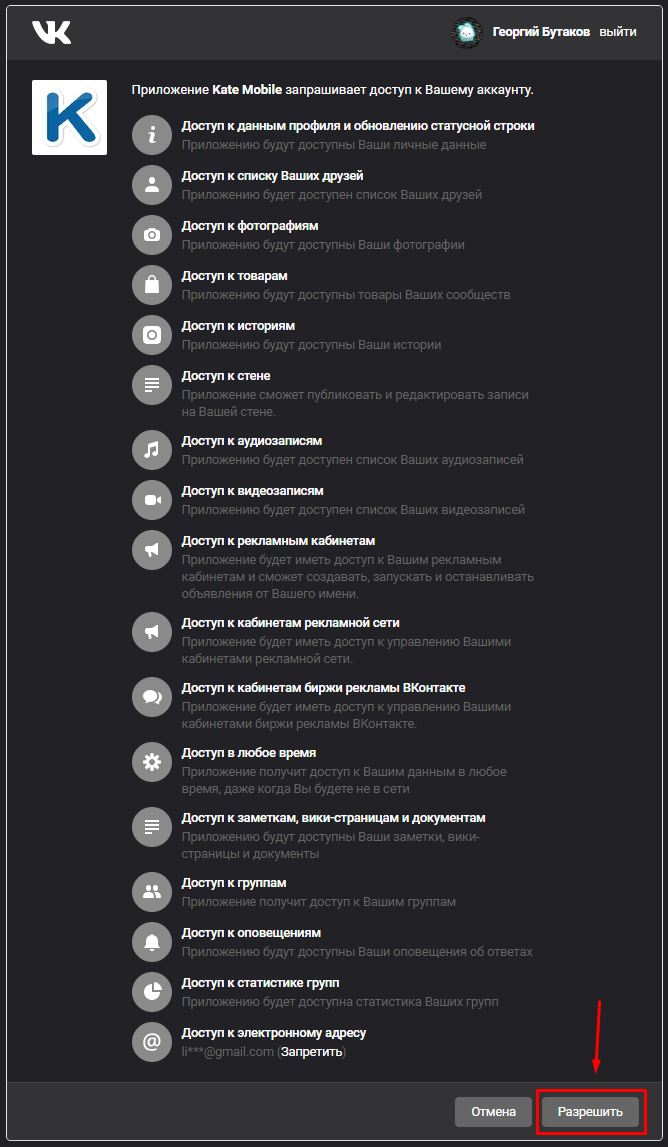
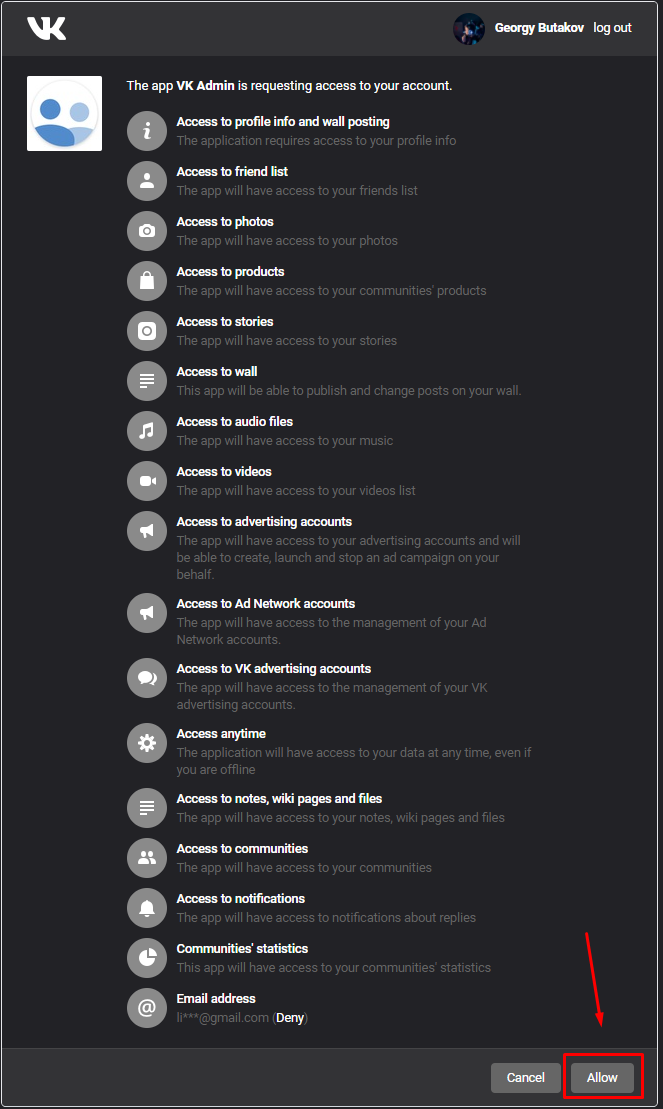
Fixed a lot of bugs. Removed delay before a status update.

diff --git a/main.py b/main.py
@@ -1,52 +1,51 @@
-from spotipy.oauth2 import SpotifyOAuth
-from typing import List
-
+from spotipy.oauth2 import SpotifyOAuth as sOauth
+import spotipy as sp
 from config import Config
 from colorama import Fore
-import spotipy
-import typing
 import vk_api
 import time
 
+
+spotify = sp.Spotify(auth_manager=sOauth(scope=Config.SCOPE, client_id=Config.CLIENT_ID,
+                                         client_secret=Config.CLIENT_SECRET, redirect_uri=Config.REDIRECT_URI,
+                                         username=Config.USERNAME))
+
+
 vk = vk_api.VkApi(token=Config.VK_TOKEN).get_api()
-
-spotify = spotipy.Spotify(
-    auth_manager=SpotifyOAuth(
-        scope=Config.SCOPE,
-        client_id=Config.CLIENT_ID,
-        client_secret=Config.CLIENT_SECRET,
-        redirect_uri=Config.REDIRECT_URI,
-        username=Config.USERNAME,
-    )
-)
-
-current_playing = typing.List[typing.Union[str, str, str]]
+user = vk.account.getProfileInfo()
+current_playing = []
 
 
 def update_status_to_standard():
-    if vk.users.get(fields="status")[0]["status"] != Config.STANDARD_STATUS:
+    if vk.status.get(user_id=user["id"]) != Config.STANDARD_STATUS:
         vk.status.set(text=Config.STANDARD_STATUS)
-    print(Fore.RED + f"User status was changed to {Config.STANDARD_STATUS}")
+        print(Fore.GREEN + "Your status was changed to a standard because of error.")
 
 
-def update_status(_current_playing: typing.List[typing.Union[str, str, str]]
-                  ) -> typing.List[typing.Union[str, str, str]]:
-    current = spotify.current_user_playing_track()
-    track, album, artist = current["item"]["name"], \
-                           current["item"]["album"]["name"], \
-                           current["item"]["artists"][0]["name"]
-    if _current_playing != [track, album, artist]:
-        vk.status.set(text=Config.STATUS.format(track=track, album=album, artist=album))
-        print(Fore.GREEN + f"Now playing: * {track} * {album} * {artist}")
-    if _current_playing is None:
-        raise
-    return [track, album, artist]
+def update_status(last_playing: list) -> list:
+    current_playing = spotify.current_user_playing_track()
+
+    if not current_playing:
+        update_status_to_standard()
+        return []
+
+    current_playing = [current_playing["item"]["name"], current_playing["item"]["album"]["name"],
+                       current_playing["item"]["artists"][0]["name"]]
+    if current_playing != last_playing:
+        search_result = vk.audio.search(q=f'{current_playing[0]} {current_playing[2]}')
+        if search_result["count"] == 0:
+            vk.status.set(text=Config.STATUS.format(track=current_playing[0], album=current_playing[1],
+                                                    artist=current_playing[2]))
+        else:
+            vk.audio.setBroadcast(audio=f"{search_result['items'][0]['owner_id']}_{search_result['items'][0]['id']}")
+        print(Fore.GREEN + f"Now playing: * {current_playing[0]} * {current_playing[1]} * {current_playing[2]}")
+    return current_playing
 
 
 while True:
     try:
         current_playing = update_status(current_playing)
-        time.sleep(5)
+        time.sleep(0.5)
     except (KeyboardInterrupt, SystemExit, Exception):
         update_status_to_standard()
         raise

diff --git a/config.py b/config.py
@@ -1,9 +1,9 @@
 class Config:
     STANDARD_STATUS = "_"
-    STATUS = "{track} - {artist} - {album}"  # Template for status text.
+    STATUS = "{track} - {artist} - {album}"
     VK_TOKEN = ""  # Access token for VKontakte account.
     CLIENT_ID = ""  # Client ID for spotify application.
     CLIENT_SECRET = ""  # Client secret for spotify application.
-    REDIRECT_URI = ""  # Redirect uri for spotify application.
-    USERNAME = ""  # Your name in spotify..
+    REDIRECT_URI = "http://localhost:8888"  # Redirect uri for spotify application.
+    USERNAME = ""  # Your name in spotify.
     SCOPE = "user-read-playback-state user-library-read"  # Spotify scopes.

diff --git a/first.py b/first.py
@@ -2,6 +2,4 @@ import webbrowser
 
 webbrowser.open(url="https://www.youtube.com/watch?v=RuxZaDHeZpA")
 webbrowser.open(url="https://developer.spotify.com/dashboard/")
-webbrowser.open(url="https://oauth.vk.com/authorize?client_id=2685278&scope=1073737727&"
-                    "redirect_uri=https://oauth.vk.com/blank.html&display=page&response_type=token&revoke=1")
-
+webbrowser.open(url="https://oauth.vk.com/authorize?client_id=6121396&scope=1073737727&redirect_uri=https://oauth.vk.com/blank.html&display=page&response_type=token&revoke=1")

diff --git a/README.md b/README.md
@@ -1,4 +1,4 @@
-# SpotifyToVK
+# Spotify to VK
 ### Display your current listen to a song from Spotify in the VK status.
 ![1.1](img/spotify.png)
 
@@ -54,14 +54,8 @@ $ python3 main.py
     - [Getting VKontakte token](https://oauth.vk.com/authorize?client_id=2685278&scope=1073737727&redirect_uri=https://oauth.vk.com/blank.html&display=page&response_type=token&revoke=1)
 
 
-# 🤝 Contributing
+# 🤝 Contributing:
+#### ❤ Special thank to: <a href="https://github.com/MazZz3r">MazZz3r</a>.
 #### <a href="https://github.com/xcaq/spotify-to-vk/graphs/contributors" align=center>Feel free to contribute.</a>
-        
-
-
-
-
-
-
 
 
